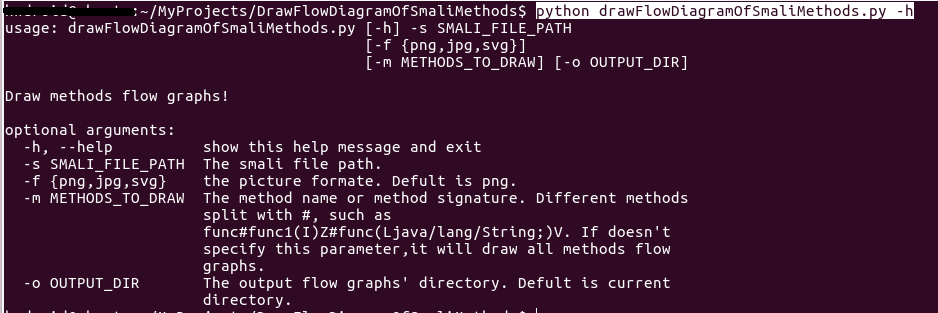
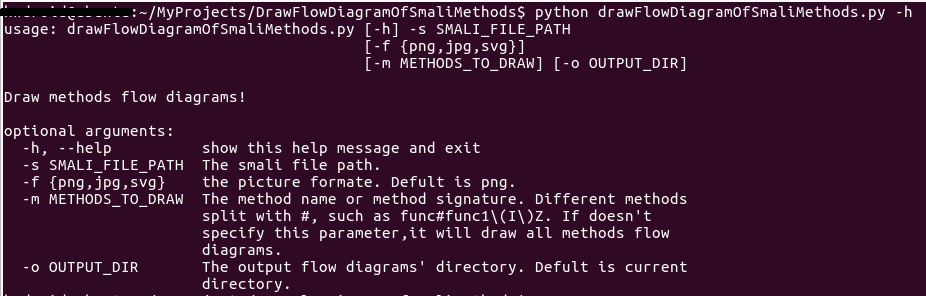
modify help.png

diff --git a/drawFlowDiagramOfSmaliMethods.py b/drawFlowDiagramOfSmaliMethods.py
@@ -139,7 +139,7 @@ class DrawFlowDiagram:
     def __init__(self, smaliFilePath, pictureFormat, methodsToDraw, outputDir):
         self.smaliFilePath = smaliFilePath
         self.pictureFormat = pictureFormat
-        # if methodsToDraw is empty, draw all methods' flow graphs, otherwise, only draw flow graphs of methods that are in methodsToDraw
+        # if methodsToDraw is empty, draw all methods' flow diagrams, otherwise, only draw flow diagrams of methods that are in methodsToDraw
         self.methodsToDraw = methodsToDraw
         self.outputDir = outputDir
         self.classInSmali = ClassInSmali()
@@ -184,7 +184,7 @@ class DrawFlowDiagram:
             try:
                 self.__drawMethodFlowDiagram(method)
             except Exception, ex:
-                print "\n\tDraw method flow graph error!\n\terror message:%s\n\tmethod name:%s\n" % (str(ex), method.methodName)
+                print "\n\tDraw method flow diagram error!\n\terror message:%s\n\tmethod name:%s\n" % (str(ex), method.methodName)
 
     def __drawMethodFlowDiagram(self, method):
         methodName = method.methodName
@@ -234,7 +234,7 @@ class DrawFlowDiagram:
         os.remove(tempDotFileName)
         if ret[-1]:
             raise Exception(ret[-1])
-        print "draw method(%s) flow graph succeed!" % methodName
+        print "draw method(%s) flow diagram succeed!" % methodName
 
     @staticmethod
     def __getDotStrForEdge(fromLineNum, toLineNum, edgeColor):
@@ -254,12 +254,12 @@ class DrawFlowDiagram:
 
 
 def main():
-    argumentParser = argparse.ArgumentParser(description="Draw methods flow graphs!")
+    argumentParser = argparse.ArgumentParser(description="Draw methods flow diagrams!")
     argumentParser.add_argument("-s", dest="smali_file_path", required=True, help="The smali file path.")
     argumentParser.add_argument("-f", dest="picture_format", default="png", choices=["png", "jpg", "svg"], help="the picture formate. Defult is png.")
     argumentParser.add_argument("-m", dest="methods_to_draw",
-                                help="The method name or method signature. Different methods split with #, such as func#func1(I)Z#func(Ljava/lang/String;)V. If doesn't specify this parameter,it will draw all methods flow graphs.")
-    argumentParser.add_argument("-o", dest="output_dir", default=os.getcwd(), help="The output flow graphs' directory. Defult is current directory.")
+                                help="The method name or method signature. Different methods split with #, such as func#func1\(I\)Z. If doesn't specify this parameter,it will draw all methods flow diagrams.")
+    argumentParser.add_argument("-o", dest="output_dir", default=os.getcwd(), help="The output flow diagrams' directory. Defult is current directory.")
     args = argumentParser.parse_args()
 
     smaliFilePath = args.smali_file_path
